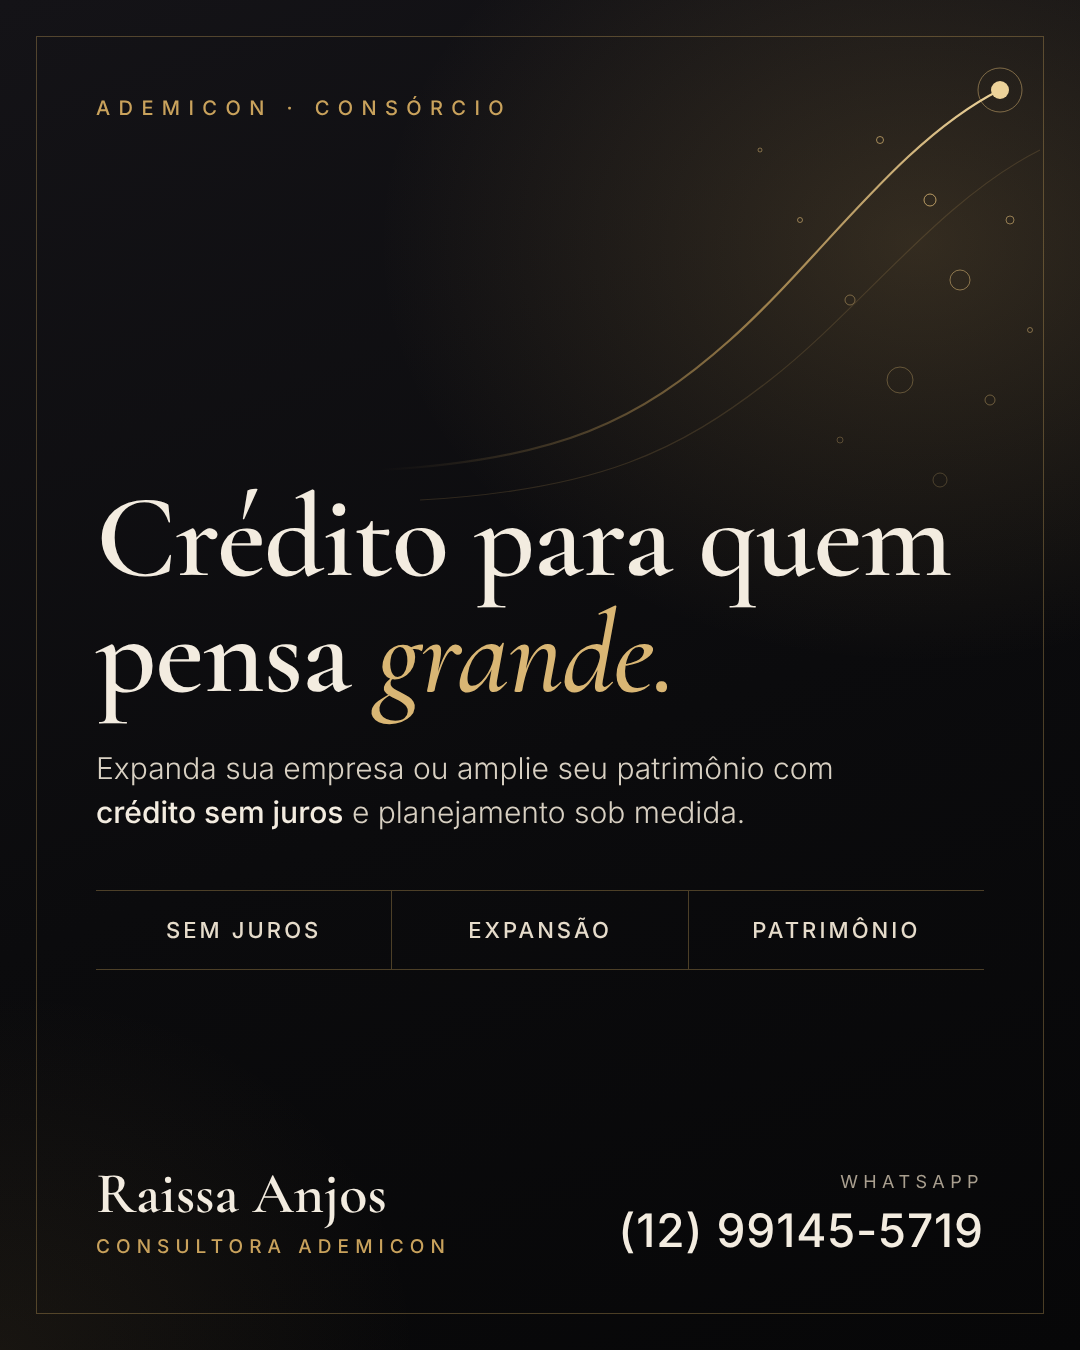
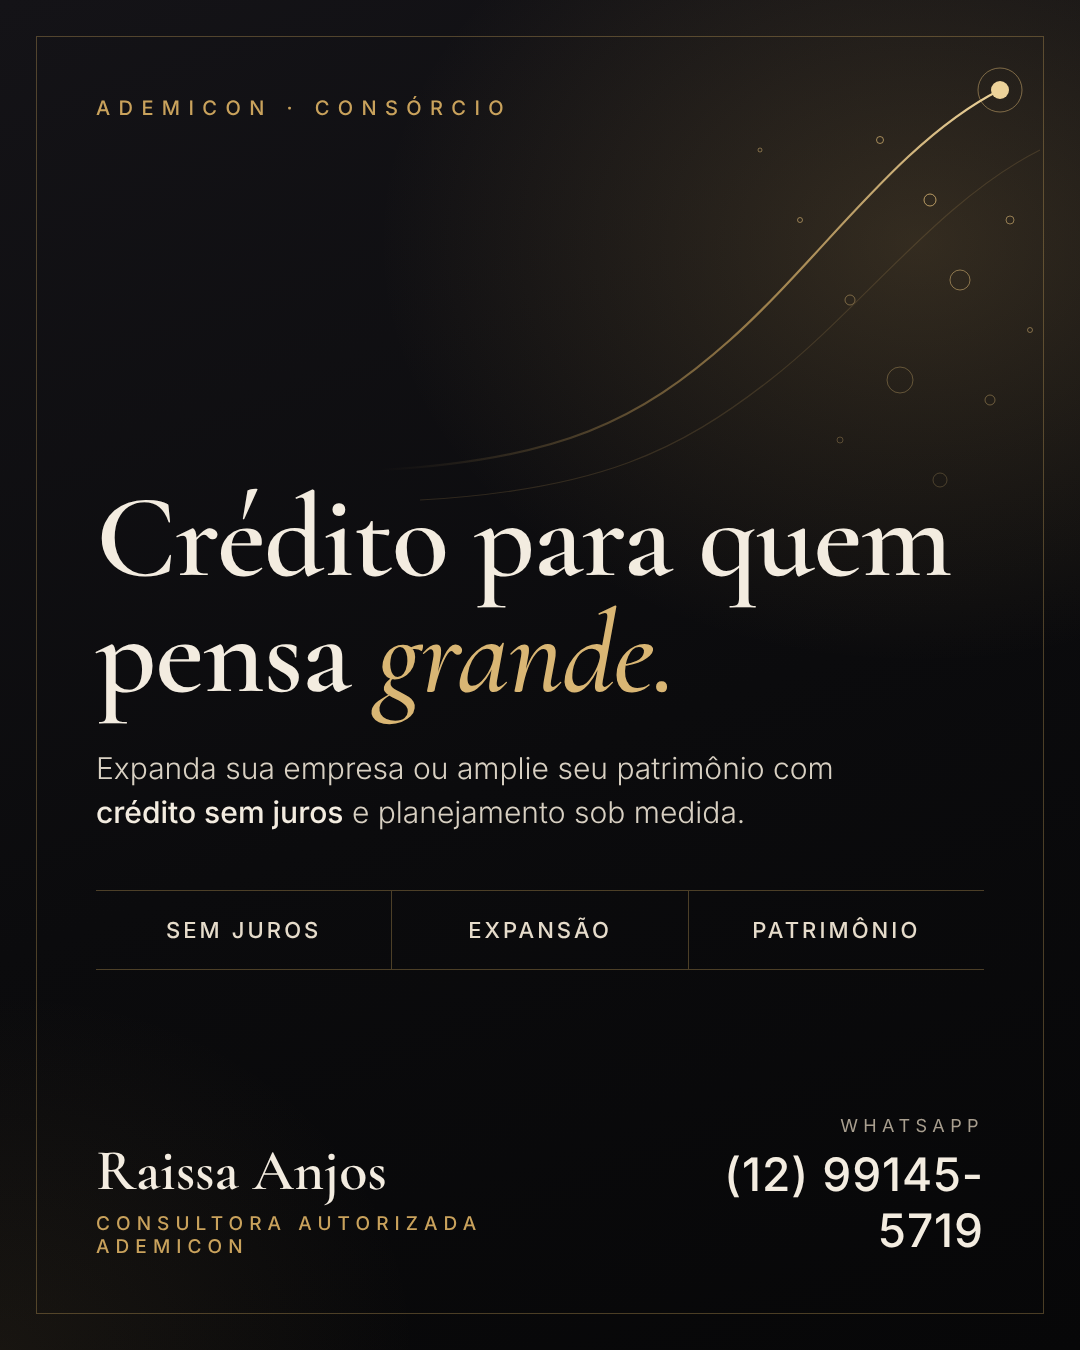
Adiciona arte da mecânica para levantar capital e padroniza rodapé como consultora autorizada
Claude-Session: https://claude.ai/code/session_01BK8wKjJvhbXChz87ZeFZ3D

Changed region(s): [[0.0917, 0.84, 0.4278, 0.9333], [0.5806, 0.8089, 0.8861, 0.9333]]

diff --git a/ademicon-andre/arte-mecanica.html b/ademicon-andre/arte-mecanica.html
@@ -1,0 +1,77 @@
+<!doctype html>
+<html lang="pt-BR">
+<head>
+<meta charset="utf-8">
+<link href="https://fonts.googleapis.com/css2?family=Cormorant+Garamond:ital,wght@0,500;0,600;1,500&family=Inter:wght@300;400;500;600&display=swap" rel="stylesheet">
+<style>
+  :root { --gold: #c9a25c; --gold-hi: #d9b674; --ink: #f3ece0; --muted: #b5ab9b; --line: rgba(201,162,92,.35); }
+  * { margin: 0; padding: 0; box-sizing: border-box; }
+  body { width: 1080px; height: 1350px; background: #0b0b0d; }
+  .card {
+    position: relative; width: 1080px; height: 1350px; overflow: hidden;
+    background:
+      radial-gradient(900px 700px at 90% 8%, rgba(201,162,92,.18), transparent 60%),
+      radial-gradient(700px 600px at 0% 100%, rgba(201,162,92,.08), transparent 60%),
+      linear-gradient(160deg, #141317 0%, #0b0b0d 55%, #070708 100%);
+    color: var(--ink); font-family: 'Inter', sans-serif; padding: 96px 96px 0;
+  }
+  .frame { position: absolute; inset: 36px; border: 1px solid var(--line); pointer-events: none; }
+  .tag { font-size: 20px; letter-spacing: .42em; color: var(--gold); font-weight: 500; }
+  h1 { font-family: 'Cormorant Garamond', serif; font-weight: 600; font-size: 92px; line-height: 1; margin-top: 44px; letter-spacing: -.01em; }
+  h1 em { font-style: italic; font-weight: 500; color: var(--gold-hi); }
+  .sub { margin-top: 22px; font-size: 26px; line-height: 1.45; font-weight: 300; color: #d8d0c2; }
+  .steps { position: relative; margin-top: 60px; }
+  .step:not(:last-child)::after { content: ""; position: absolute; left: 35px; top: 72px; bottom: 0; width: 1px; background: var(--line); }
+  .step { position: relative; display: flex; gap: 36px; align-items: flex-start; padding: 0 0 46px; }
+  .num { flex: none; width: 72px; height: 72px; border-radius: 50%; border: 1px solid var(--gold); background: #0f0e11; display: grid; place-items: center; font-size: 28px; color: var(--gold-hi); font-weight: 500; }
+  .step:last-child .num { background: var(--gold); color: #0b0b0d; }
+  .step h3 { font-size: 30px; font-weight: 600; margin-top: 6px; }
+  .step p { margin-top: 8px; font-size: 22px; line-height: 1.45; color: var(--muted); font-weight: 300; max-width: 720px; }
+  .step p b { color: var(--ink); font-weight: 500; }
+  .foot { position: absolute; left: 96px; right: 96px; bottom: 84px; display: flex; justify-content: space-between; align-items: flex-end; border-top: 1px solid var(--line); padding-top: 34px; }
+  .name { font-family: 'Cormorant Garamond', serif; font-size: 54px; font-weight: 600; line-height: 1; }
+  .role { margin-top: 12px; font-size: 17px; letter-spacing: .3em; color: var(--gold); font-weight: 500; }
+  .phone { text-align: right; }
+  .phone small { display: block; font-size: 17px; letter-spacing: .3em; color: #a99f8f; margin-bottom: 10px; }
+  .phone span { font-size: 44px; font-weight: 500; letter-spacing: .02em; }
+</style>
+</head>
+<body>
+<div class="card">
+  <div class="frame"></div>
+  <div class="tag">ADEMICON · CONSÓRCIO</div>
+  <h1>Como levantar <em>capital</em><br>com o consórcio.</h1>
+  <p class="sub">Uma estratégia planejada para investir sem juros e sem pesar no caixa.</p>
+
+  <div class="steps">
+    <div class="step"><div class="num">1</div><div>
+      <h3>Escolha o crédito</h3>
+      <p>Defina o valor da carta e o prazo ideais para o seu projeto. <b>Sem entrada e sem juros.</b></p>
+    </div></div>
+    <div class="step"><div class="num">2</div><div>
+      <h3>Parcelas planejadas</h3>
+      <p>Você paga apenas o crédito e a <b>taxa de administração</b>, mantendo o capital de giro livre.</p>
+    </div></div>
+    <div class="step"><div class="num">3</div><div>
+      <h3>Contemplação</h3>
+      <p>Por <b>sorteio</b> mensal ou por <b>lance</b>, para antecipar o acesso ao crédito.</p>
+    </div></div>
+    <div class="step"><div class="num">4</div><div>
+      <h3>Capital em ação</h3>
+      <p>Use a carta em imóveis, frota ou equipamentos — ativos que <b>geram renda</b> e ampliam o patrimônio.</p>
+    </div></div>
+  </div>
+
+  <div class="foot">
+    <div>
+      <div class="name">Raissa Anjos</div>
+      <div class="role">CONSULTORA AUTORIZADA ADEMICON</div>
+    </div>
+    <div class="phone">
+      <small>WHATSAPP</small>
+      <span>(12) 99145-5719</span>
+    </div>
+  </div>
+</div>
+</body>
+</html>

diff --git a/ademicon-andre/arte-capital-de-giro.html b/ademicon-andre/arte-capital-de-giro.html
@@ -84,7 +84,7 @@
   <div class="foot">
     <div>
       <div class="name">Raissa Anjos</div>
-      <div class="role">CONSULTORA ADEMICON</div>
+      <div class="role">CONSULTORA AUTORIZADA ADEMICON</div>
     </div>
     <div class="phone">
       <small>WHATSAPP</small>

diff --git a/ademicon-andre/arte.html b/ademicon-andre/arte.html
@@ -85,7 +85,7 @@
   <div class="foot">
     <div>
       <div class="name">Raissa Anjos</div>
-      <div class="role">CONSULTORA ADEMICON</div>
+      <div class="role">CONSULTORA AUTORIZADA ADEMICON</div>
     </div>
     <div class="phone">
       <small>WHATSAPP</small>
